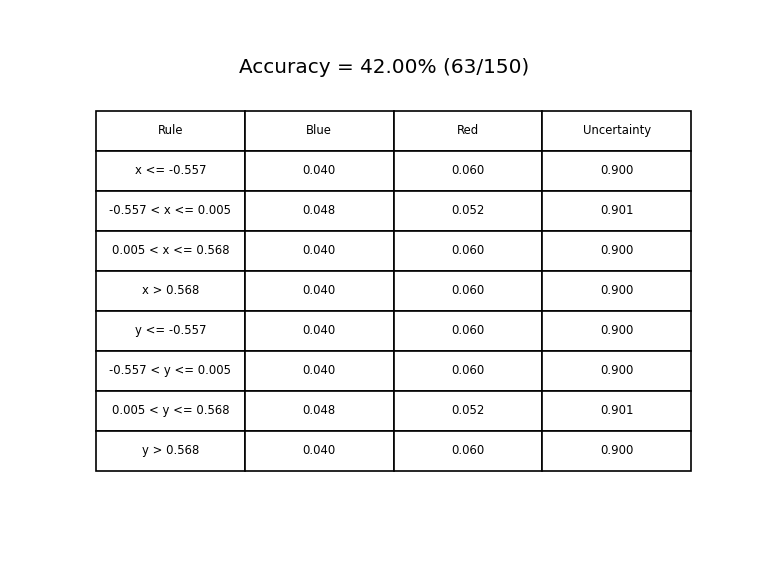
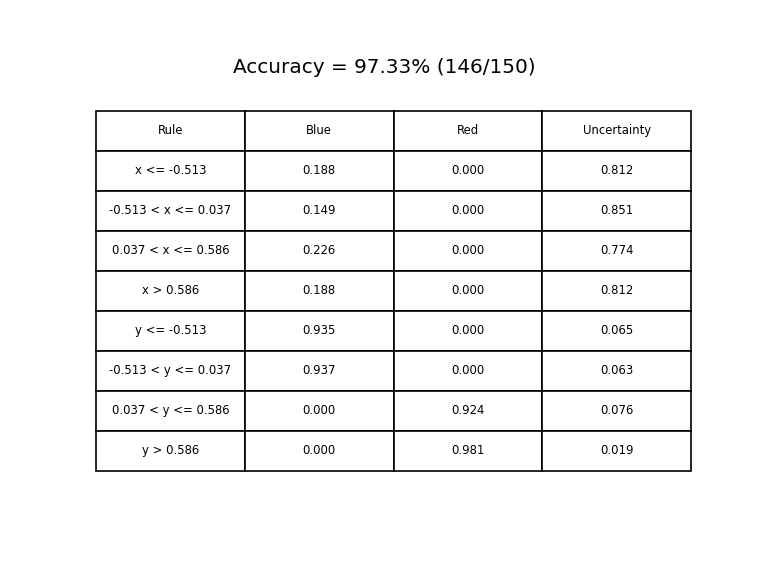
Working helper

diff --git a/utils/dataset_functions.py b/utils/dataset_functions.py
@@ -41,23 +41,22 @@ def generate_rules_dataset_A1(X_train):
     [x_mean, y_mean] = np.mean(X_train, axis=0) # mean along columns
     [x_std,  y_std]  = np.std(X_train, axis=0, dtype=np.float64) # std along columns
 
-    s_list = [
-        lambda x,y: x <= x_mean-x_std, 
-        lambda x,y: x_mean-x_std < x and x <= x_mean,
-        lambda x,y: x_mean < x and x <= x_mean+x_std,
-        lambda x,y: x > x_mean+x_std, 
-        lambda x,y: y <= y_mean-y_std, 
-        lambda x,y: y_mean-y_std < y and y <= y_mean,
-        lambda x,y: y_mean < y and y <= y_mean+y_std,
-        lambda x,y: y > y_mean+y_std, 
-    ]
+    # s_list = [
+    #     lambda x,y: x <= x_mean-x_std, 
+    #     lambda x,y: x_mean-x_std < x and x <= x_mean,
+    #     lambda x,y: x_mean < x and x <= x_mean+x_std,
+    #     lambda x,y: x > x_mean+x_std, 
+    #     lambda x,y: y <= y_mean-y_std, 
+    #     lambda x,y: y_mean-y_std < y and y <= y_mean,
+    #     lambda x,y: y_mean < y and y <= y_mean+y_std,
+    #     lambda x,y: y > y_mean+y_std, 
+    # ]
 
-    # s_list = []
-    # att_list = [(x, x_mean, x_std), (y, y_mean, y_std)]
-    # for e, mean, std in att_list:
-    #     print(e, mean, std)
-    #     rules = generate_rule_A1_helper(e, mean, std)
-    #     s_list.extend(rules)
+    s_list = []
+    rules = generate_rule_A1_helper_x(x_mean, x_std)
+    s_list.extend(rules)
+    rules = generate_rule_A1_helper_y(y_mean, y_std)
+    s_list.extend(rules)
 
     # Author rules
     # s_list = [
@@ -204,9 +203,16 @@ def split_test_train(X,Y):
     return X_train, Y_train, X_test, Y_test
 
 
-def generate_rule_A1_helper(element, x_mean, x_std):
-    r1 = lambda x,y: element <= x_mean-x_std
-    r2 = lambda x,y: x_mean-x_std < element and element <= x_mean
-    r3 = lambda x,y: x_mean < element and element <= x_mean+x_std
-    r4 = lambda x,y: element > x_mean+x_std
+def generate_rule_A1_helper_x(x_mean, x_std):
+    r1 = lambda x,y: x <= x_mean-x_std
+    r2 = lambda x,y: x_mean-x_std < x and x <= x_mean
+    r3 = lambda x,y: x_mean < x and x <= x_mean+x_std
+    r4 = lambda x,y: x > x_mean+x_std
+    return [r1, r2, r3, r4]
+
+def generate_rule_A1_helper_y(x_mean, x_std):
+    r1 = lambda x,y: y <= x_mean-x_std
+    r2 = lambda x,y: x_mean-x_std < y and y <= x_mean
+    r3 = lambda x,y: x_mean < y and y <= x_mean+x_std
+    r4 = lambda x,y: y > x_mean+x_std
     return [r1, r2, r3, r4]
